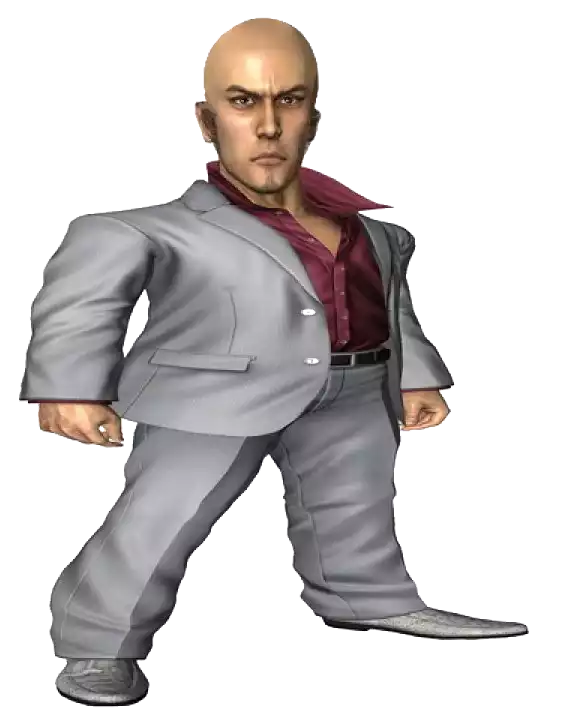
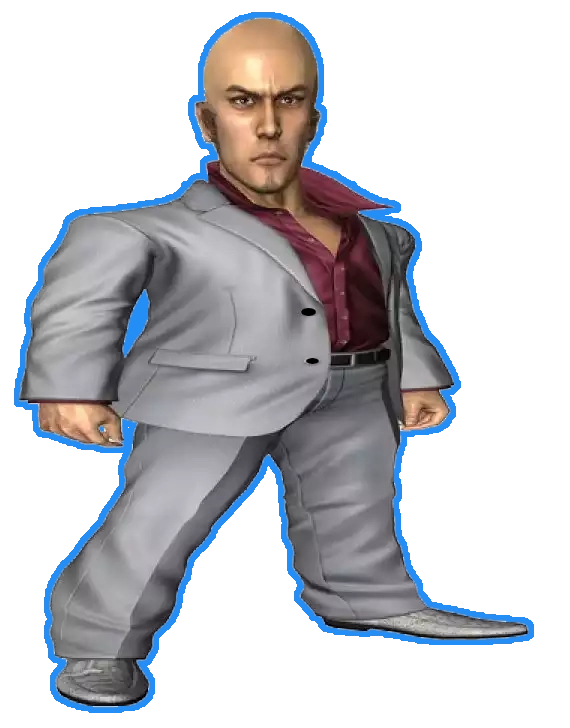
Added outline to blad kryiu and allowed for debug mode on public

diff --git a/frontend/src/App.vue b/frontend/src/App.vue
@@ -18,7 +18,7 @@
       </h2>
     </div>
     <DialogWrapper />
-    <div v-if="dev_possible">
+    <div>
       <input type="checkbox" id="debug_checkbox" v-model="debug_mode" />
       <label for="debug_checkbox">Debug Mode: {{ debug_mode }}</label>
     </div>
